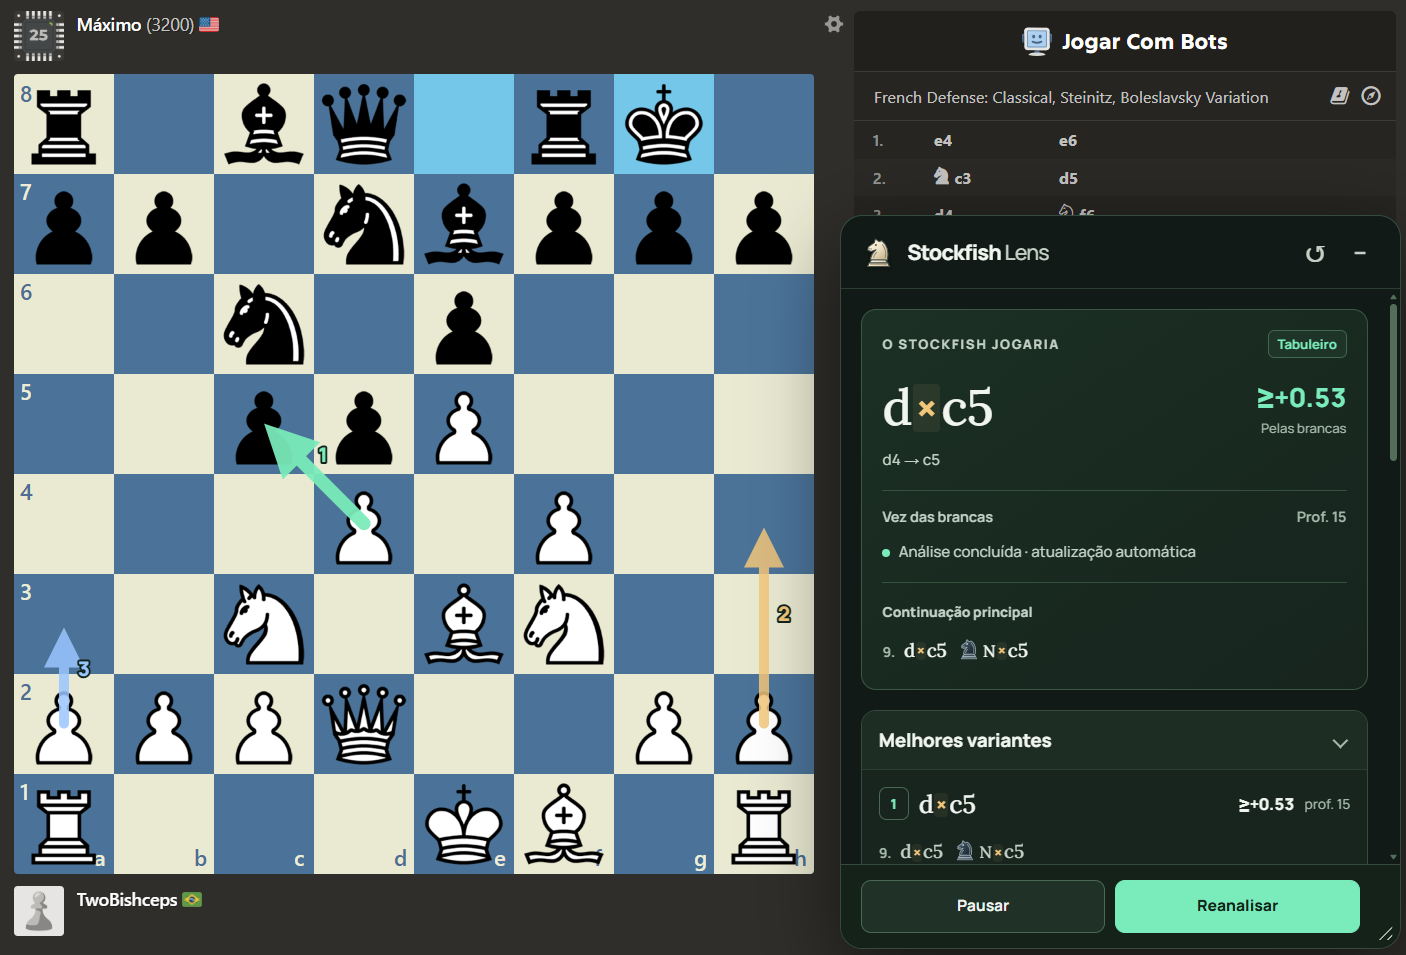
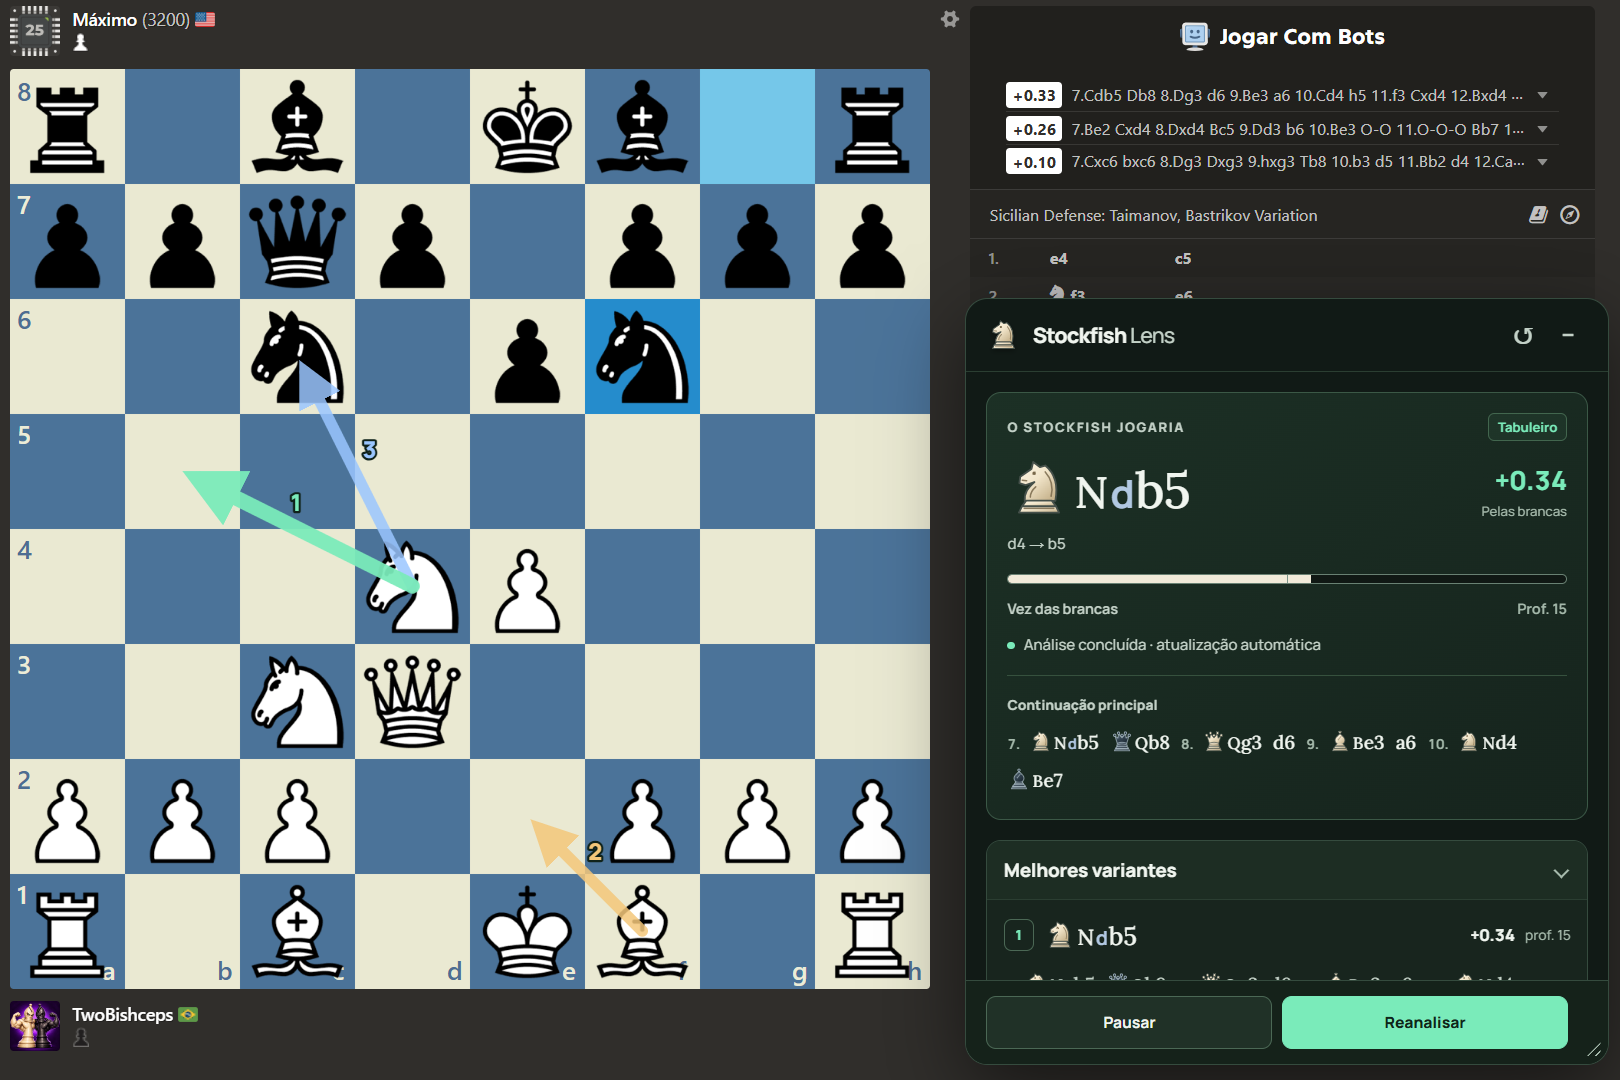
Add mini evaluation bar and refresh screenshots for 1.1.0

diff --git a/src/content.js b/src/content.js
@@ -1,6 +1,6 @@
 import { Chess } from 'chess.js';
 import { BOARD_SELECTOR, readPosition, placementFromBoard, squarePoint, isFlipped } from './position.js';
-import { SearchAnalysis, formatScore, hideUnfavorableAlternative } from './analysis.js';
+import { SearchAnalysis, formatScore, hideUnfavorableAlternative, evaluationBarPercent } from './analysis.js';
 import { DEFAULTS, normalizeSettings, ARROW_SETTINGS, arrowPreference, FONT_SCALES, ARROW_SCALES } from './settings.js';
 import { renderSan, renderLine } from './notation.js';
 import { renderPiece } from './pieces.js';
@@ -34,7 +34,7 @@ async function main() {
         <div class="source-row"><div class="eyebrow">O STOCKFISH JOGARIA</div><span class="source-badge">Tabuleiro</span></div>
         <div class="result"><strong class="move">—</strong><div class="score-block" title="Avaliação para as brancas. Valores negativos favorecem as pretas."><span class="score">—</span><small>Pelas brancas</small></div></div>
         <div class="squares">Aguardando o tabuleiro</div>
-        <div class="divider"></div>
+        <div class="divider"><div class="eval-bar" role="img" hidden><span class="eval-white"></span><span class="eval-center"></span></div></div>
         <div class="meta"><span class="turn">Posição não identificada</span><span class="depth">Prof. —</span></div>
         <p class="status" role="status" aria-live="polite">Carregando motor local…</p>
         <p class="premove-note section-note" role="status" hidden>Pré-movimento marcado. Analisando a posição real; setas temporariamente ocultas.</p>
@@ -141,7 +141,21 @@ async function main() {
     noticeTimer = setTimeout(() => { $('.notice').textContent = ''; }, 3500);
   }
   const send = data => frame?.contentWindow?.postMessage({ channel, ...data }, new URL(chrome.runtime.getURL('/')).origin);
+  function renderEvaluationBar(info) {
+    const bar = $('.eval-bar');
+    const percent = evaluationBarPercent(info);
+    bar.hidden = percent === null;
+    if (percent === null) {
+      bar.style.removeProperty('--sf-eval-white');
+      bar.removeAttribute('aria-label'); bar.removeAttribute('title');
+      return;
+    }
+    bar.style.setProperty('--sf-eval-white', `${percent}%`);
+    bar.setAttribute('aria-label', `Avaliação pelas brancas: ${$('.score').textContent}. Brancas à esquerda; pretas à direita.`);
+    bar.title = `${info.bound ? 'Limite da avaliação' : 'Avaliação'}: ${$('.score').textContent} pelas brancas. Escala visual, não representa chances de vitória.`;
+  }
   const clearResult = () => {
+    renderEvaluationBar(null);
     move = null;
     $('.move').textContent = $('.score').textContent = '—';
     $('.squares').textContent = '—';
@@ -182,6 +196,7 @@ async function main() {
       send({ type: 'cancel' });
       $('.move').textContent = game.isCheckmate() ? 'Mate' : 'Empate';
       $('.score').textContent = game.isCheckmate() ? (game.turn() === 'w' ? '−M0' : '+M0') : '0.00';
+      renderEvaluationBar({ score: game.isCheckmate() && game.turn() === 'w' ? -0 : 0, mate: game.isCheckmate() });
       status(game.isCheckmate() ? 'Xeque-mate. Não há lance legal.' : 'Posição encerrada pelas regras do xadrez.', 'complete');
       return;
     }
@@ -287,6 +302,7 @@ async function main() {
     $('.move').dataset.san = info.san[0];
     $('.move').replaceChildren(renderSan(document, info.san[0], analysis.turn));
     $('.score').textContent = formatScore(info);
+    renderEvaluationBar(info);
     $('.score').title = info.bound ? 'Limite estimado durante a pesquisa; a avaliação exata não foi concluída.' : '';
     $('.depth').textContent = `Prof. ${info.depth ?? '—'}`;
     $('.squares').textContent = `${move.slice(0, 2)} → ${move.slice(2, 4)}${move[4] ? ` · promoção: ${move[4].toUpperCase()}` : ''}`;

diff --git a/src/panel.css b/src/panel.css
@@ -30,6 +30,10 @@ header strong span { font-weight: 500; color: var(--sf-secondary); }
 .score-block small { display: block; color: var(--sf-muted); font-size: calc(10.5px * var(--sf-font-scale)); }
 .squares { color: var(--sf-secondary); font-size: calc(12px * var(--sf-font-scale)); min-height: 19px; letter-spacing: .2px; }
 .divider { height: 1px; background: #36513e; margin: 14px 0 11px; }
+.divider:has(.eval-bar:not([hidden])) { height: 8px; background: none; }
+.eval-bar { position: relative; width: 100%; height: 100%; overflow: hidden; border: 1px solid #698173; border-radius: 5px; background: #101814; }
+.eval-white { display: block; width: var(--sf-eval-white, 50%); height: 100%; background: #f1ead9; transition: width .2s ease; }
+.eval-center { position: absolute; left: 50%; top: 0; bottom: 0; width: 1px; background: #7c9489; }
 .meta { display: flex; justify-content: space-between; flex-wrap: wrap; gap: 6px 12px; font-size: calc(11.5px * var(--sf-font-scale)); font-weight: 650; color: var(--sf-secondary); }
 .depth { color: var(--sf-muted); }
 .status { display: flex; align-items: flex-start; gap: 7px; color: var(--sf-secondary); font-size: calc(12px * var(--sf-font-scale)); margin: 10px 0 0; line-height: 1.55; }

diff --git a/src/analysis.js b/src/analysis.js
@@ -9,6 +9,13 @@ export function formatScore(info) {
   return bound + score;
 }
 
+// A compact visual scale, not a win probability. Reserve the endpoints for mate.
+export function evaluationBarPercent(info) {
+  if (!Number.isFinite(info?.score)) return null;
+  if (info.mate) return info.score < 0 || Object.is(info.score, -0) ? 0 : 100;
+  return Math.max(1, Math.min(99, 50 + 50 * Math.tanh(info.score / 400)));
+}
+
 // Scores and bounds are stored from White's perspective. Keep the primary move
 // available even in losing positions; only filter alternatives known to favor
 // the opponent. A lower bound below zero is still inconclusive for White (and

diff --git a/README.md b/README.md
@@ -10,7 +10,7 @@ Extensão Chrome Manifest V3 que mostra o lance que o Stockfish faria, suas prin
 [![CI](https://github.com/gustavolafz/stockfish-lens/actions/workflows/ci.yml/badge.svg)](https://github.com/gustavolafz/stockfish-lens/actions/workflows/ci.yml)
 [![Licença GPL-3.0](https://img.shields.io/badge/licen%C3%A7a-GPL--3.0-blue)](LICENSE)
 
-[**Baixar a versão 1.0.0**](https://github.com/gustavolafz/stockfish-lens/releases/tag/v1.0.0) · [Instalação](#instalação) · [Desenvolvimento](#desenvolvimento) · [Privacidade](PRIVACY.md)
+[**Baixar a versão 1.1.0**](https://github.com/gustavolafz/stockfish-lens/releases/tag/v1.1.0) · [Instalação](#instalação) · [Desenvolvimento](#desenvolvimento) · [Privacidade](PRIVACY.md)
 
 ## Para que serve
 
@@ -24,7 +24,7 @@ Os prints abaixo foram enviados pelo autor durante partidas contra o bot do Ches
 
 ### Melhor lance e setas
 
-![Chess.com com o painel Stockfish Lens, avaliação, continuação e três sugestões coloridas no tabuleiro](docs/images/chesscom-best-move.png)
+![Chess.com com o painel Stockfish Lens, mini barra de avaliação, continuação e três sugestões coloridas no tabuleiro](docs/images/chesscom-best-move.png)
 
 ### Compare as continuações
 
@@ -34,7 +34,7 @@ Os prints abaixo foram enviados pelo autor durante partidas contra o bot do Ches
 
 Requer Chrome 110+ ou um navegador Chromium compatível com extensões Manifest V3. A validação automatizada usa Chromium; a distribuição desta versão é por instalação manual.
 
-1. Baixe **`stockfish-lens-1.0.0.zip`** na [release 1.0.0](https://github.com/gustavolafz/stockfish-lens/releases/tag/v1.0.0).
+1. Baixe **`stockfish-lens-1.1.0.zip`** na [release 1.1.0](https://github.com/gustavolafz/stockfish-lens/releases/tag/v1.1.0).
 2. Extraia o ZIP para uma pasta permanente. **Não selecione o ZIP diretamente no Chrome.**
 3. Abra `chrome://extensions` e ative **Modo do desenvolvedor**.
 4. Clique em **Carregar sem compactação** e selecione a pasta que contém `manifest.json`.
@@ -61,6 +61,8 @@ A análise atualiza automaticamente após os lances e ao navegar pelo histórico
 ### Como ler as avaliações
 
 O valor com sinal é sempre **pelas brancas**: `+0,50` favorece as brancas; `−0,50` favorece as pretas. Valores `+M3` / `−M3` indicam mate para a cor correspondente; `≥` e `≤` indicam limites de uma pesquisa incompleta. A barra WDL refere-se ao **lado que tem a vez**, identificado no painel. Essas estimativas não são garantias de resultado.
+
+A mini barra abaixo do melhor lance acompanha a avaliação numérica: **brancas à esquerda, pretas à direita**, com uma marca central para o equilíbrio. Ela mantém essa orientação mesmo com o tabuleiro invertido. É uma escala visual de vantagem; não representa probabilidades de vitória. Mate preenche a barra para a cor vencedora, empate fica no centro e a barra é ocultada sem avaliação disponível.
 
 O filtro **Ocultar alternativas desfavoráveis**, ligado por padrão, pode esconder as setas do 2º e do 3º lances quando a avaliação favorece o adversário de quem joga. A melhor sugestão continua disponível e todas as variantes permanecem no painel. Uma pequena avaliação negativa não significa, por si só, um erro. Desative o filtro para mostrar todas as setas selecionadas.
 
@@ -128,8 +130,8 @@ As suítes instalam a extensão em um perfil temporário, servem os HTMLs locais
 
 | Arquivo | Conteúdo |
 | --- | --- |
-| `stockfish-lens-1.0.0.zip` | Extensão pronta para carregar no Chrome |
-| `stockfish-lens-1.0.0-source.zip` | Fontes da extensão, submódulo do motor, rede lite, docs e scripts |
+| `stockfish-lens-1.1.0.zip` | Extensão pronta para carregar no Chrome |
+| `stockfish-lens-1.1.0-source.zip` | Fontes da extensão, submódulo do motor, rede lite, docs e scripts |
 | `SHA256SUMS.txt` | Checksums dos dois ZIPs |
 
 O ZIP **Source code** criado automaticamente pelo GitHub não traz o conteúdo dos submódulos. Use o ZIP completo de fontes anexado à release ou o clone recursivo.

diff --git a/docs/ENGINE.md b/docs/ENGINE.md
@@ -1,6 +1,6 @@
 # Motor e origem dos arquivos
 
-O Stockfish Lens 1.0.0 empacota os arquivos `stockfish-19-lite-single.js` e `stockfish-19-lite-single.wasm` **sem alteração**, vindos de `stockfish@19.0.1` no npm. A versão está fixada em `package-lock.json`.
+O Stockfish Lens empacota os arquivos `stockfish-19-lite-single.js` e `stockfish-19-lite-single.wasm` **sem alteração**, vindos de `stockfish@19.0.1` no npm. A versão está fixada em `package-lock.json`.
 
 O submódulo `vendor/stockfish.js` aponta para a tag upstream **v19.0.1**, revisão **0d5dd7944f88c817c07a26bc4fb1905d5f9c46d6**, de [nmrugg/stockfish.js](https://github.com/nmrugg/stockfish.js/tree/v19.0.1). Esse repositório contém o C++ do Stockfish e as adaptações e scripts de WebAssembly usados por essa distribuição. Não é necessário clonar um segundo checkout C++ para compilar a extensão.
 
@@ -23,6 +23,6 @@ A rede lite está incluída em `assets/engine/`, com o nome que contém o prefix
 
 ## Fontes e licenças
 
-O ZIP completo de fontes da release inclui o código da extensão, o conteúdo do submódulo, a rede lite e os scripts. O ZIP automático **Source code** gerado pelo GitHub não inclui o conteúdo de submódulos; use o pacote `stockfish-lens-1.0.0-source.zip` ou um clone com `--recurse-submodules`.
+O ZIP completo de fontes da release inclui o código da extensão, o conteúdo do submódulo, a rede lite e os scripts. O ZIP automático **Source code** gerado pelo GitHub não inclui o conteúdo de submódulos; use o pacote `stockfish-lens-1.1.0-source.zip` ou um clone com `--recurse-submodules`.
 
 O motor é GPL-3.0; a rede NNUE do arquivo oficial é CC0-1.0, com o texto preservado em `assets/engine/CC0-1.0.txt`. Os arquivos do upstream são mantidos sem alteração. As fontes tipográficas e chess.js têm licenças próprias preservadas no pacote. Consulte [NOTICE.txt](../NOTICE.txt) e [LICENSE](../LICENSE).

diff --git a/CHANGELOG.md b/CHANGELOG.md
@@ -1,5 +1,13 @@
 # Changelog
 
+## 1.1.0 — 2026-10-26
+
+- Atualiza os dois prints do README com as novas capturas da interface.
+
+- Mini barra de avaliação na seção do melhor lance, com brancas à esquerda, pretas à direita e marca de equilíbrio no centro.
+- A barra acompanha o mesmo resultado do valor numérico, mantém a perspectiva das brancas e indica mate e empate. Fica oculta quando não há avaliação disponível ou a análise foi pausada.
+- Escala visual separada das probabilidades WDL, com explicação ao passar o mouse e rótulo de acessibilidade.
+
 ## 1.0.0 — 2026-10-25
 
 Primeira entrega pública do Stockfish Lens, voltada ao estudo de partidas contra bots no Chess.com.
